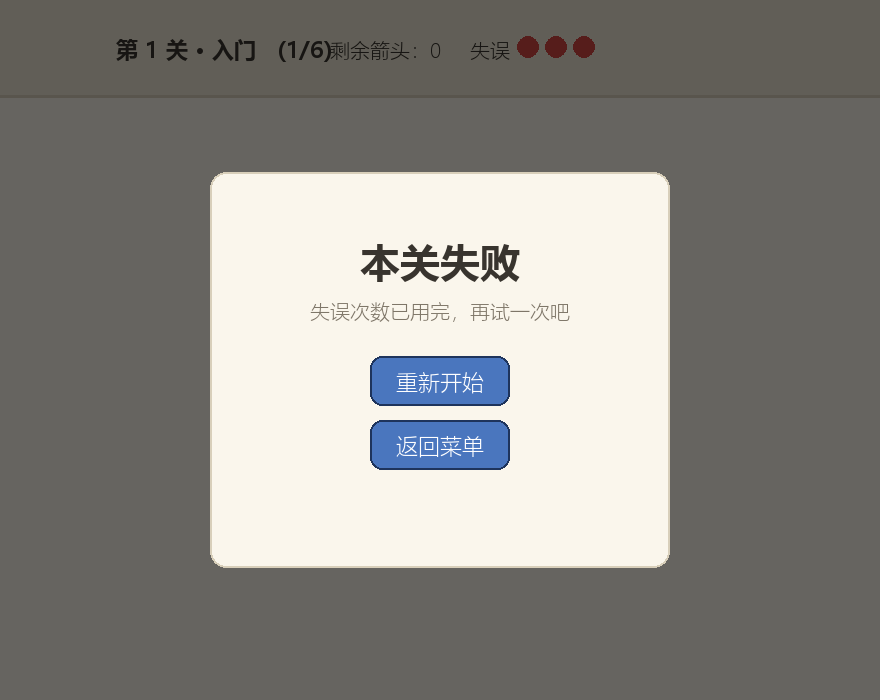
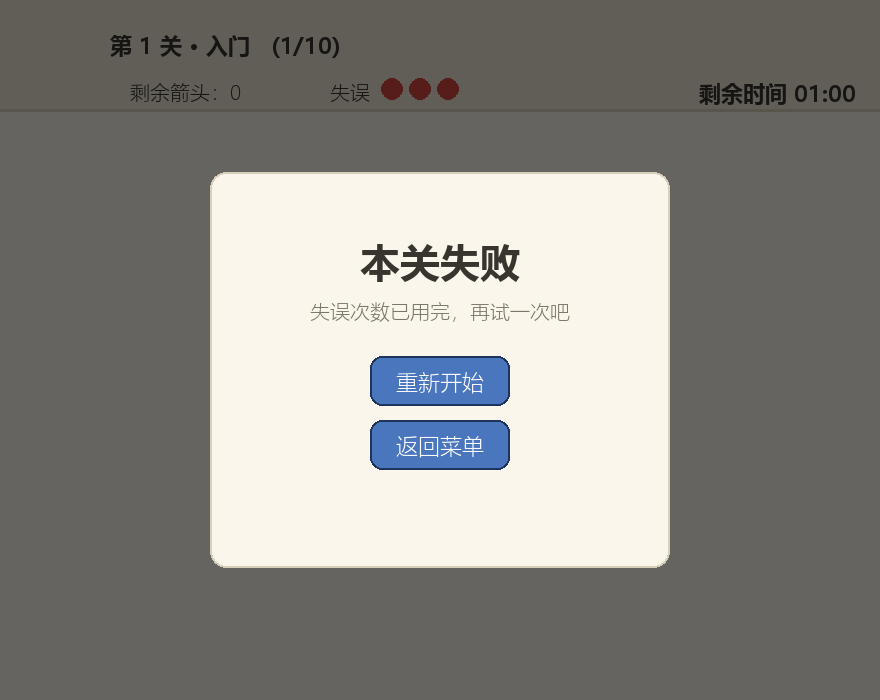
docs: 更新 README 与博客（10 关、时间限制、28 项测试），重生成截图与 GIF

diff --git a/博客-一箭又一箭.md b/博客-一箭又一箭.md
@@ -56,7 +56,7 @@
 
 * 若路径上**存在其他箭头**，箭头不能被消除，并通过晃动、变红和 “前方有阻挡！” 文字给出碰撞反馈，同时**消耗 1 次失误机会**；
 
-* 每关有 3 次失误机会，**清空本关全部箭头即通关**并进入下一关；失误次数耗尽则本关失败，可重新开始。
+* 每关有 2~3 次失误机会（前 6 关 3 次、后 4 关 2 次），并且**每关限时**（60~160 秒）；**清空本关全部箭头即通关**并进入下一关；失误次数耗尽或超时则本关失败，可重新开始。
 
 路径判定采用网格单格箭头：只需判断同一行（左右箭头）或同一列（上下箭头）、箭头与边界之间是否还有其他箭头。
 
@@ -66,9 +66,9 @@
 
 * **开始界面**：标题、规则说明、开始游戏 / 选择关卡 / 退出三个按钮；
 
-* **关卡选择界面**：6 个关卡按钮，显示关卡名与箭头数量；
+* **关卡选择界面**：10 个关卡按钮，显示关卡名与箭头数量；
 
-* **游戏界面**：顶部信息栏显示当前关卡、剩余箭头数量、剩余失误次数（红色圆点），以及 “菜单 / 重新开始 / 提示 / 撤销” 按钮；中央为棋盘，支持悬停高亮；
+* **游戏界面**：顶部信息栏显示当前关卡、剩余箭头数量、剩余失误次数（红色圆点）、剩余时间（右上角倒计时，最后 30 秒变红），以及 “菜单 / 重新开始 / 提示 / 撤销” 按钮；中央为棋盘，支持悬停高亮；大棋盘（7×7 及以上）会自动缩小格子以保证完整显示；
 
 * **通关 / 失败 / 全部通关界面**：半透明遮罩 + 结算弹窗与操作按钮。
 
@@ -78,7 +78,7 @@
 
 基础功能全部实现：图形界面、四方向箭头、鼠标点击、路径阻挡判断、飞出消除、碰撞反馈、失误次数显示、3 个以上可通关关卡、通关 / 失败 / 重新开始流程。
 
-扩展功能（附加分部分）：关卡选择、提示功能、撤销上一步、内置求解器（关卡可解性验证与提示依据）、飞出淡出动画、碰撞晃动动画、按钮悬停效果、快捷键（`R`/`H`/`Z`/`Esc`）。
+扩展功能（附加分部分）：关卡选择（10 关）、提示功能、撤销上一步、内置求解器（关卡可解性验证与提示依据）、**每关限时倒计时**（超时判负、失败界面区分“失误耗尽 / 时间耗尽”）、**可解关卡生成器**、飞出淡出动画、碰撞晃动动画、按钮悬停效果、快捷键（`R`/`H`/`Z`/`Esc`）。
 
 ## 三、实现思路
 
@@ -240,11 +240,11 @@ def solve(self):
 
 * 同一列中 “`v` 在 `^` 上方”：同样互相阻挡。
 
-初版第 2、3、4、6 关都出现过这类死锁（详见 AIGC 使用过程记录），被求解器测试发现后逐一人工调整。
+初版第 2、3、4、6 关都出现过这类死锁（详见 AIGC 使用过程记录），被求解器测试发现后逐一人工调整。后期扩充关卡时改用**逆向生成**：从空棋盘开始每放置一个箭头都用求解器验证“放置后仍可解”，不满足就回退，从而从算法上保证新关卡必定可通关；再叠加“方向翻转优化”把初始可直接飞出的箭头压到 2~4 支，保证解谜深度。目前共 10 关（4×4~9×9），箭头数从 5 递增到 20，后 4 关失误上限降为 2 次并配有限时。
 
 ## 四、AIGC 使用过程
 
-本作业使用 **豆包（Doubao）AI 编程助手** 辅助开发。以下是 4 次具有代表性的协作过程：
+本作业使用 **豆包（Doubao）AI 编程助手** 辅助开发。以下是 7 次具有代表性的协作过程：
 
 
 
@@ -254,6 +254,9 @@ def solve(self):
 | 关卡设计      | 豆包           | 生成关卡数组与死锁检测思路             | 第 2、3、4、6 关初版存在同行 / 同列互堵死锁，无法通关     | 用求解器逐一验证，调整箭头方向消除死锁并重新试玩          |
 | 碰撞 / 飞出动画 | 豆包           | 补全箭头晃动、变色与淡出动画代码          | 初版把箭头尺寸写成浮点数导致绘制报错，晃动频率偏高           | 修复整数类型转换，调整晃动幅度与动画时长              |
 | 自动化测试     | 豆包           | 生成 T01\~T06 测试用例与 UI 冒烟测试 | 逻辑测试全部通过                            | 补充了互堵关卡检测、边缘用例，修正了 1 处测试自身的棋盘设计错误 |
+| 时间限制       | 豆包           | 生成倒计时字段与超时判负逻辑          | 逻辑正确但初版把超时和失误耗尽混为一个失败原因，界面无法区分 | 增加 `lose_reason` 区分两种失败，UI 按原因显示不同文案并接入 HUD 倒计时 |
+| 可解关卡生成器  | 豆包           | 给出“逆向构造 + 求解器验证”生成思路 | 初版随机方向生成的关卡初始可飞箭头多达 10/14，开头太简单 | 加入向心方向偏好与“方向翻转优化”，初始可飞降到 2~4 支 |
+| 代码体检       | 豆包           | 复查界面代码，发现 `get_font` 签名被改坏 | 传 `bold=True` 的 4 处调用全部抛 `TypeError`，UI 一运行就崩 | 恢复带候选字体遍历与 `bold` 参数的实现，UI 冒烟测试恢复通过 |
 
 ### 记录 1：四方向路径检测（边界条件修复）
 
@@ -295,6 +298,34 @@ def solve(self):
 
 **人工修改**：重新设计 T06 的棋盘（`.<>..>`：一个可飞出、一个被阻挡），并额外补充了 “互堵关卡应被判定为不可解” 的反例测试和 UI 冒烟测试（虚拟显示驱动下绘制所有界面、跑通通关与失败流程）。最终 **19 项测试全部通过**。
 
+### 记录 5：时间限制（失败原因区分）
+
+**提出的要求**：给每关增加倒计时，时间耗尽直接判负；重新开始要恢复剩余时间。
+
+**AI 完成的工作**：在 `Session` 中增加 `time_limit` / `time_left` 字段与 `tick(dt)` 方法，倒计时归零置为 `lost`；UI 层每帧调用 `tick` 并更新 HUD。
+
+**实际效果与问题**：初版把“失误耗尽”和“时间耗尽”都归为 `lost`，失败界面无法区分原因，用户看到文案永远是“失误次数已用完”。另外时间放在逻辑层后，界面层最初忘记在 `update` 中推进，倒计时根本不走。
+
+**人工修改**：增加 `lose_reason`（`'mistakes'` / `'time'`）区分两种失败，失败弹窗按原因显示不同文案；在 `update` 主循环接入 `session.tick(dt)`，超时先弹出“时间到！”浮动提示再切失败界面；HUD 右上角显示倒计时，最后 30 秒变红。新增 T07 共 7 个时间用例（倒计时递减、超时判负、失败原因、重开恢复、通关停表等），并补了一个 UI 冒烟测试验证“超时后进入失败界面”。
+
+### 记录 6：可解关卡生成器（难度控制）
+
+**提出的要求**：把 6 关扩充到 10 关、明显加大难度，同时保证每个新关卡都存在通关顺序。
+
+**AI 完成的工作**：给出“逆向构造”思路——从空棋盘开始，每放置一个箭头就用贪心求解器验证“放置后仍可解”，不满足则回退，从构造上保证可解性。
+
+**实际效果与问题**：初版生成器随机四向摆放，生成的关卡虽然可解，但初始可直接飞出的箭头多达 10~14 个（一半以上），开头毫无解谜感；且方向分布偏向同一种，视觉单调。
+
+**人工修改**：加入两个改进——①**向心方向偏好**：箭头方向按位置偏向棋盘中心（连续权重），边缘箭头大多朝内被锁住；②**方向翻转优化**：生成后对每个“初始可飞”箭头尝试换向，只要保持可解且减少初始可飞数就接受，迭代直到初始可飞数压到 2~4 支。最终第 7~10 关为 7×7~9×9、14~20 支箭头、失误上限 2 次、限时 120~160 秒，与前三关形成明显难度阶梯。
+
+### 记录 7：代码体检（`get_font` 参数错误）
+
+**提出的要求**：对现有代码做一次全面检查，找出“程序跑不起来”的问题。
+
+**AI 完成的工作**：运行 UI 冒烟测试，发现 `ui.py` 的 `get_font` 函数被改成了只接受 `size` 一个参数，而全文件有 4 处调用仍传 `bold=True`（关卡按钮、HUD 标题、失败弹窗、浮动文字），全部抛 `TypeError`——**游戏一启动就会崩溃**；同时发现该版本只尝试 “simhei” 一种字体、找不到时可能退回默认字体丢失中文。
+
+**人工修改**：恢复 `get_font(size, bold=False)` 的完整实现（遍历候选中文字体 + 找不到退回默认字体），跑通全部 UI 冒烟测试。这再次印证：**AI 修改代码后必须用测试回归，签名变了而调用没跟上是最常见的隐性炸弹**。
+
 ## 五、测试结果
 
 测试环境：Windows + Python 3.14.7 + pygame-ce 2.5.8，运行命令：
@@ -315,11 +346,12 @@ python -m unittest discover -s tests -v
 | T04 | 消除本关全部箭头        | 显示通关并进入下一关     | 状态变为 won，自动切换到通关界面，可进入下一关 | ✅ 通过 |
 | T05 | 失误次数耗尽          | 显示失败并允许重新开始    | 状态变为 lost，重新开始后棋盘与失误恢复    | ✅ 通过 |
 | T06 | 游戏进行中重新开始       | 箭头布局和失误次数恢复    | 布局、失误次数、撤销栈均恢复初始          | ✅ 通过 |
-| 附加  | 全部 6 关可解性验证     | 每关都存在通关顺序      | 求解器验证全部可解                 | ✅ 通过 |
+| T07 | 每关限时倒计时         | 超时判负、重开恢复时间、通关停表 | 倒计时递减，超时进入失败界面且原因显示为“时间耗尽” | ✅ 通过 |
+| 附加  | 全部 10 关可解性验证    | 每关都存在通关顺序      | 求解器验证全部可解                 | ✅ 通过 |
 | 附加  | 互堵关卡检测          | 不可解布局能被识别      | 死锁关卡被判定为不可解               | ✅ 通过 |
-| 附加  | UI 冒烟测试         | 各界面可绘制、流程正常    | 全部界面绘制与流程切换无异常            | ✅ 通过 |
+| 附加  | UI 冒烟测试         | 各界面可绘制、流程正常    | 全部界面绘制、通关 / 失败 / 超时流程无异常   | ✅ 通过 |
 
-**测试小结**：共 19 项测试全部通过。测试不仅验证了需求，还真实暴露了开发中的 3 个 Bug（方向向量错误、关卡死锁、动画类型错误），体现了 “先写用例、再验证” 的价值。除自动化测试外，6 个关卡均已人工试玩，确认存在合理的通关顺序。
+**测试小结**：共 **28 项测试**全部通过。测试不仅验证了需求，还真实暴露了开发中的多个 Bug（方向向量错误、关卡死锁、动画类型错误、`get_font` 参数错误、时间不推进），体现了 “先写用例、再验证” 的价值。除自动化测试外，10 个关卡均已用求解器验证可解，并通过 `tools/validate_levels.py` 复核。
 
 ## 六、PSP 表格
 
@@ -331,13 +363,13 @@ python -m unittest discover -s tests -v
 | Python 与图形库学习 | 2.0      | 1.5      | -0.5     |
 | 游戏界面实现        | 4.0      | 3.0      | -1.0     |
 | 路径与碰撞逻辑实现     | 3.0      | 2.0      | -1.0     |
-| 关卡设计          | 2.0      | 2.5      | +0.5     |
-| AIGC 辅助开发     | 2.0      | 1.5      | -0.5     |
-| 测试与修改         | 2.0      | 2.0      | 0.0      |
+| 关卡设计（含扩充至 10 关与生成器） | 2.0      | 3.5      | +1.5     |
+| AIGC 辅助开发（含时间限制与代码体检） | 2.0      | 2.5      | +0.5     |
+| 测试与修改（含 T07 与 UI 超时用例） | 2.0      | 3.0      | +1.0     |
 | README 与博客撰写  | 3.0      | 3.5      | +0.5     |
-| **合计**        | **19.0** | **16.5** | **-2.5** |
+| **合计**        | **19.0** | **19.5** | **+0.5** |
 
-> 实际耗时为本次开发记录值，请按个人实际情况核对调整。
+> 实际耗时为本次开发记录值（含第二轮“查错 + 难度扩充 + 时间限制”增强），请按个人实际情况核对调整。
 
 ## 七、心得体会
 
@@ -345,7 +377,7 @@ python -m unittest discover -s tests -v
 
 **出现的问题**：AI 生成代码最大的风险是 “看起来对、实际错”。本次 AI 的路径检测方向向量写错、关卡出现互堵死锁、动画参数类型错误，都是只靠肉眼检查发现不了的，全部要靠边界用例和求解器这类**可验证的手段**兜底。这提醒我：AI 是 “高效的草稿生成器”，不是 “可靠的代码评审员”，把 AI 代码直接当正确答案是最危险的用法。
 
-**我的收获**：一是真正理解了本游戏路径检测与 “互堵死锁” 的本质（同行 `>` 对 `<`、同列 `v` 对 `^` 必然无解），并会用贪心求解器证明关卡可解；二是掌握了 “逻辑层与界面层解耦 + 自动化测试” 的工程习惯，使逻辑可以脱离图形界面被反复验证；三是对 AI 协作有了更理性的定位 —— 提问要具体（“请实现四方向路径检测并处理边缘越界”），验证要独立（测试、试玩、求解器），修改要敢下手。
+**我的收获**：一是真正理解了本游戏路径检测与 “互堵死锁” 的本质（同行 `>` 对 `<`、同列 `v` 对 `^` 必然无解），并会用贪心求解器证明关卡可解；二是掌握了 “逻辑层与界面层解耦 + 自动化测试” 的工程习惯，使逻辑可以脱离图形界面被反复验证；三是对 AI 协作有了更理性的定位 —— 提问要具体（“请实现四方向路径检测并处理边缘越界”），验证要独立（测试、试玩、求解器），修改要敢下手；四是这次查错让我亲身体会到，**AI 修改过的代码必须用测试回归**——`get_font` 签名被改坏这种“一启动就崩”的问题，正是靠 UI 冒烟测试第一时间暴露的；而“逆向构造 + 求解器验证”的关卡生成思路，让我不用再靠肉眼一个个排查死锁，扩关卡从“碰运气”变成了“可复现的工序”。
 
 ## 附：运行环境与提交信息
 

diff --git a/README.md b/README.md
@@ -10,7 +10,7 @@
 
 - 若箭头前进方向直到棋盘边界之间**没有其他箭头**，箭头飞出棋盘并被消除；
 - 若路径上**存在其他箭头**，箭头保留，并以晃动、变色和提示文字给出碰撞反馈，同时**消耗 1 次失误机会**；
-- 每关有 3 次失误机会，**清空本关全部箭头即通关**，失误次数耗尽则本关失败。
+- 每关有 2~3 次失误机会（前 6 关 3 次，后 4 关 2 次），**每关限时**（60~160 秒），**清空本关全部箭头即通关**；失误次数耗尽或超时则本关失败。
 
 ## 开发环境
 
@@ -45,14 +45,16 @@ python -m unittest discover -s tests -v
 | 鼠标左键点击箭头 | 尝试让箭头飞出棋盘；被阻挡则产生碰撞反馈并扣除失误次数 |
 | 点击“提示”按钮（或按 `H`） | 高亮一个当前可以飞出的箭头 |
 | 点击“撤销”按钮（或按 `Z`） | 撤销上一次成功的飞出 |
-| 点击“重新开始”按钮（或按 `R`） | 当前关卡恢复初始状态 |
+| 点击“重新开始”按钮（或按 `R`） | 当前关卡恢复初始状态（失误次数、剩余时间一并恢复） |
 | 按 `Esc` | 返回主菜单 |
+
+每关都有**倒计时**：时间显示在界面右上角，最后 30 秒变红提醒；倒计时归零本关直接失败。
 
 界面包含：
 
 - **开始界面**：游戏标题、规则说明、开始游戏 / 选择关卡 / 退出；
-- **游戏界面**：顶部信息栏（当前关卡、剩余箭头数量、剩余失误次数）与菜单/重新开始/提示/撤销按钮，中央棋盘；
-- **通关 / 失败 / 全部通关界面**：结算弹窗与后续操作按钮。
+- **游戏界面**：顶部信息栏（当前关卡、剩余箭头数量、剩余失误次数、剩余时间）与菜单/重新开始/提示/撤销按钮，中央棋盘（大关卡自动缩小格子以完整显示）；
+- **通关 / 失败 / 全部通关界面**：结算弹窗与后续操作按钮（失败界面会区分“失误耗尽”与“时间耗尽”）。
 
 ## 游戏截图
 
@@ -77,37 +79,43 @@ python -m unittest discover -s tests -v
 ```
 .
 ├── main.py                  # 程序入口
-├── ui.py                    # Pygame 界面：屏幕、HUD、按钮、动画
-├── game_logic.py            # 核心逻辑：棋盘、四方向路径检测、求解器、会话状态
-├── levels.py                # 6 个关卡数据（已通过求解器验证可通关）
+├── ui.py                    # Pygame 界面：屏幕、HUD、按钮、动画、倒计时
+├── game_logic.py            # 核心逻辑：棋盘、四方向路径检测、求解器、会话状态、倒计时
+├── levels.py                # 10 个关卡数据（已通过求解器验证可通关）
 ├── requirements.txt
 ├── tests/
-│   ├── test_game.py         # 自动化测试 T01~T06 + 关卡合法性测试
-│   └── test_ui_smoke.py     # UI 冒烟测试
+│   ├── test_game.py         # 自动化测试 T01~T07 + 关卡合法性测试
+│   └── test_ui_smoke.py     # UI 冒烟测试（含超时失败流程）
 ├── tools/
 │   ├── make_screenshots.py  # 生成 README/博客用截图
-│   └── make_demo_gif.py     # 生成自动求解演示 GIF
+│   ├── make_demo_gif.py     # 生成自动求解演示 GIF
+│   ├── validate_levels.py   # 关卡可解性验证工具
+│   └── gen_level.py         # 可解关卡生成器（逆向构造 + 方向翻转优化）
 └── screenshots/             # 截图与演示 GIF
 ```
 
 ## 关卡设计
 
-共 6 关（4×4 ~ 7×7），每一关都通过内置求解器验证存在通关顺序：
+共 10 关（4×4 ~ 9×9），难度逐步提升：棋盘更大、箭头更多更纠缠、失误次数更少（后 4 关 2 次）、限时更短。每一关都通过内置求解器验证存在通关顺序：
 
-| 关卡 | 名称 | 棋盘大小 |
-| --- | --- | --- |
-| 1 | 入门 | 4×4 |
-| 2 | 基础 | 5×5 |
-| 3 | 进阶 | 5×5 |
-| 4 | 挑战 | 6×6 |
-| 5 | 高手 | 6×6 |
-| 6 | 大师 | 7×7 |
+| 关卡 | 名称 | 棋盘大小 | 箭头数 | 失误上限 | 限时 |
+| --- | --- | --- | --- | --- | --- |
+| 1 | 入门 | 4×4 | 5 | 3 | 60s |
+| 2 | 基础 | 5×5 | 7 | 3 | 75s |
+| 3 | 进阶 | 5×5 | 9 | 3 | 75s |
+| 4 | 挑战 | 6×6 | 9 | 3 | 90s |
+| 5 | 高手 | 6×6 | 10 | 3 | 100s |
+| 6 | 大师 | 7×7 | 12 | 3 | 110s |
+| 7 | 宗师 | 7×7 | 14 | 2 | 120s |
+| 8 | 传说 | 8×8 | 16 | 2 | 140s |
+| 9 | 王者 | 9×9 | 18 | 2 | 160s |
+| 10 | 终极 | 9×9 | 20 | 2 | 160s |
 
-设计要点：同一行不能出现“`>` 在 `<` 左侧且无其他可移除障碍”、同一列不能出现“`v` 在 `^` 上方”等**互堵死锁**结构；初版关卡曾出现两处死锁，被求解器测试发现后已人工调整。
+设计要点：同一行不能出现“`>` 在 `<` 左侧且无其他可移除障碍”、同一列不能出现“`v` 在 `^` 上方”等**互堵死锁**结构；初版关卡曾出现多处死锁，被求解器测试发现后已人工调整。第 7~10 关使用 `tools/gen_level.py` 逆向生成（每放置一个箭头都用求解器验证仍可解），再经过“方向翻转优化”把初始可直接飞出的箭头压到 2~4 支，保证关卡有一定解谜深度。
 
 ## 测试
 
-运行 `python -m unittest discover -s tests -v`，共 **19 项测试**全部通过，覆盖：
+运行 `python -m unittest discover -s tests -v`，共 **28 项测试**全部通过，覆盖：
 
 - T01 点击前方无阻挡的箭头 → 飞出并消失；
 - T02 点击前方有阻挡的箭头 → 不消失、失误次数减 1；
@@ -115,19 +123,22 @@ python -m unittest discover -s tests -v
 - T04 清空全部箭头 → 通关并可进入下一关；
 - T05 失误耗尽 → 失败并允许重新开始；
 - T06 进行中重新开始 → 布局与失误次数恢复；
-- 全部关卡合法且可解、互堵关卡能被判定为不可解；
-- UI 冒烟测试（各界面可绘制、点击流程正常）。
+- T07 时间限制 → 倒计时递减、超时判负（lose_reason='time'）、重开恢复时间、通关后停止计时；
+- 全部关卡合法且可解（`tools/validate_levels.py` 可复核）、互堵关卡能被判定为不可解；
+- UI 冒烟测试（各界面可绘制、点击流程正常、超时进入失败界面、HUD 显示倒计时）。
 
 ## AIGC 使用说明
 
-本项目使用 **豆包（Doubao）AI 编程助手** 辅助开发，包括：环境与依赖选择、四方向路径检测、关卡数据设计、碰撞/飞出动画、自动化测试编写等。AI 生成代码中发现的典型问题（方向向量写错、关卡互堵死锁、动画参数类型错误）均经测试或人工审查后修正。详细协作记录见《博客文档》。
+本项目使用 **豆包（Doubao）AI 编程助手** 辅助开发，包括：环境与依赖选择、四方向路径检测、关卡数据设计、碰撞/飞出动画、自动化测试编写、可解关卡生成算法等。AI 生成代码中发现的典型问题（方向向量写错、关卡互堵死锁、动画参数类型错误、`get_font` 参数不匹配）均经测试或人工审查后修正。详细协作记录见《博客文档》。
 
 ## 扩展功能（附加分）
 
-- 关卡选择界面（6 关自由选择）；
+- 关卡选择界面（10 关自由选择）；
 - 提示功能（高亮可飞出箭头）；
 - 撤销上一步（撤销成功的飞出）；
 - 内置求解器（用于关卡可解性验证、提示与自动演示）；
+- **每关限时倒计时**（最后 30 秒变红，超时判负，失败界面区分失误/超时）；
+- 可解关卡生成器 `tools/gen_level.py`（逆向构造，保证生成关卡可通关）；
 - 飞出淡出动画、碰撞晃动与变色反馈、提示光圈动画、按钮悬停效果；
 - 快捷键（R / H / Z / Esc）。
 
